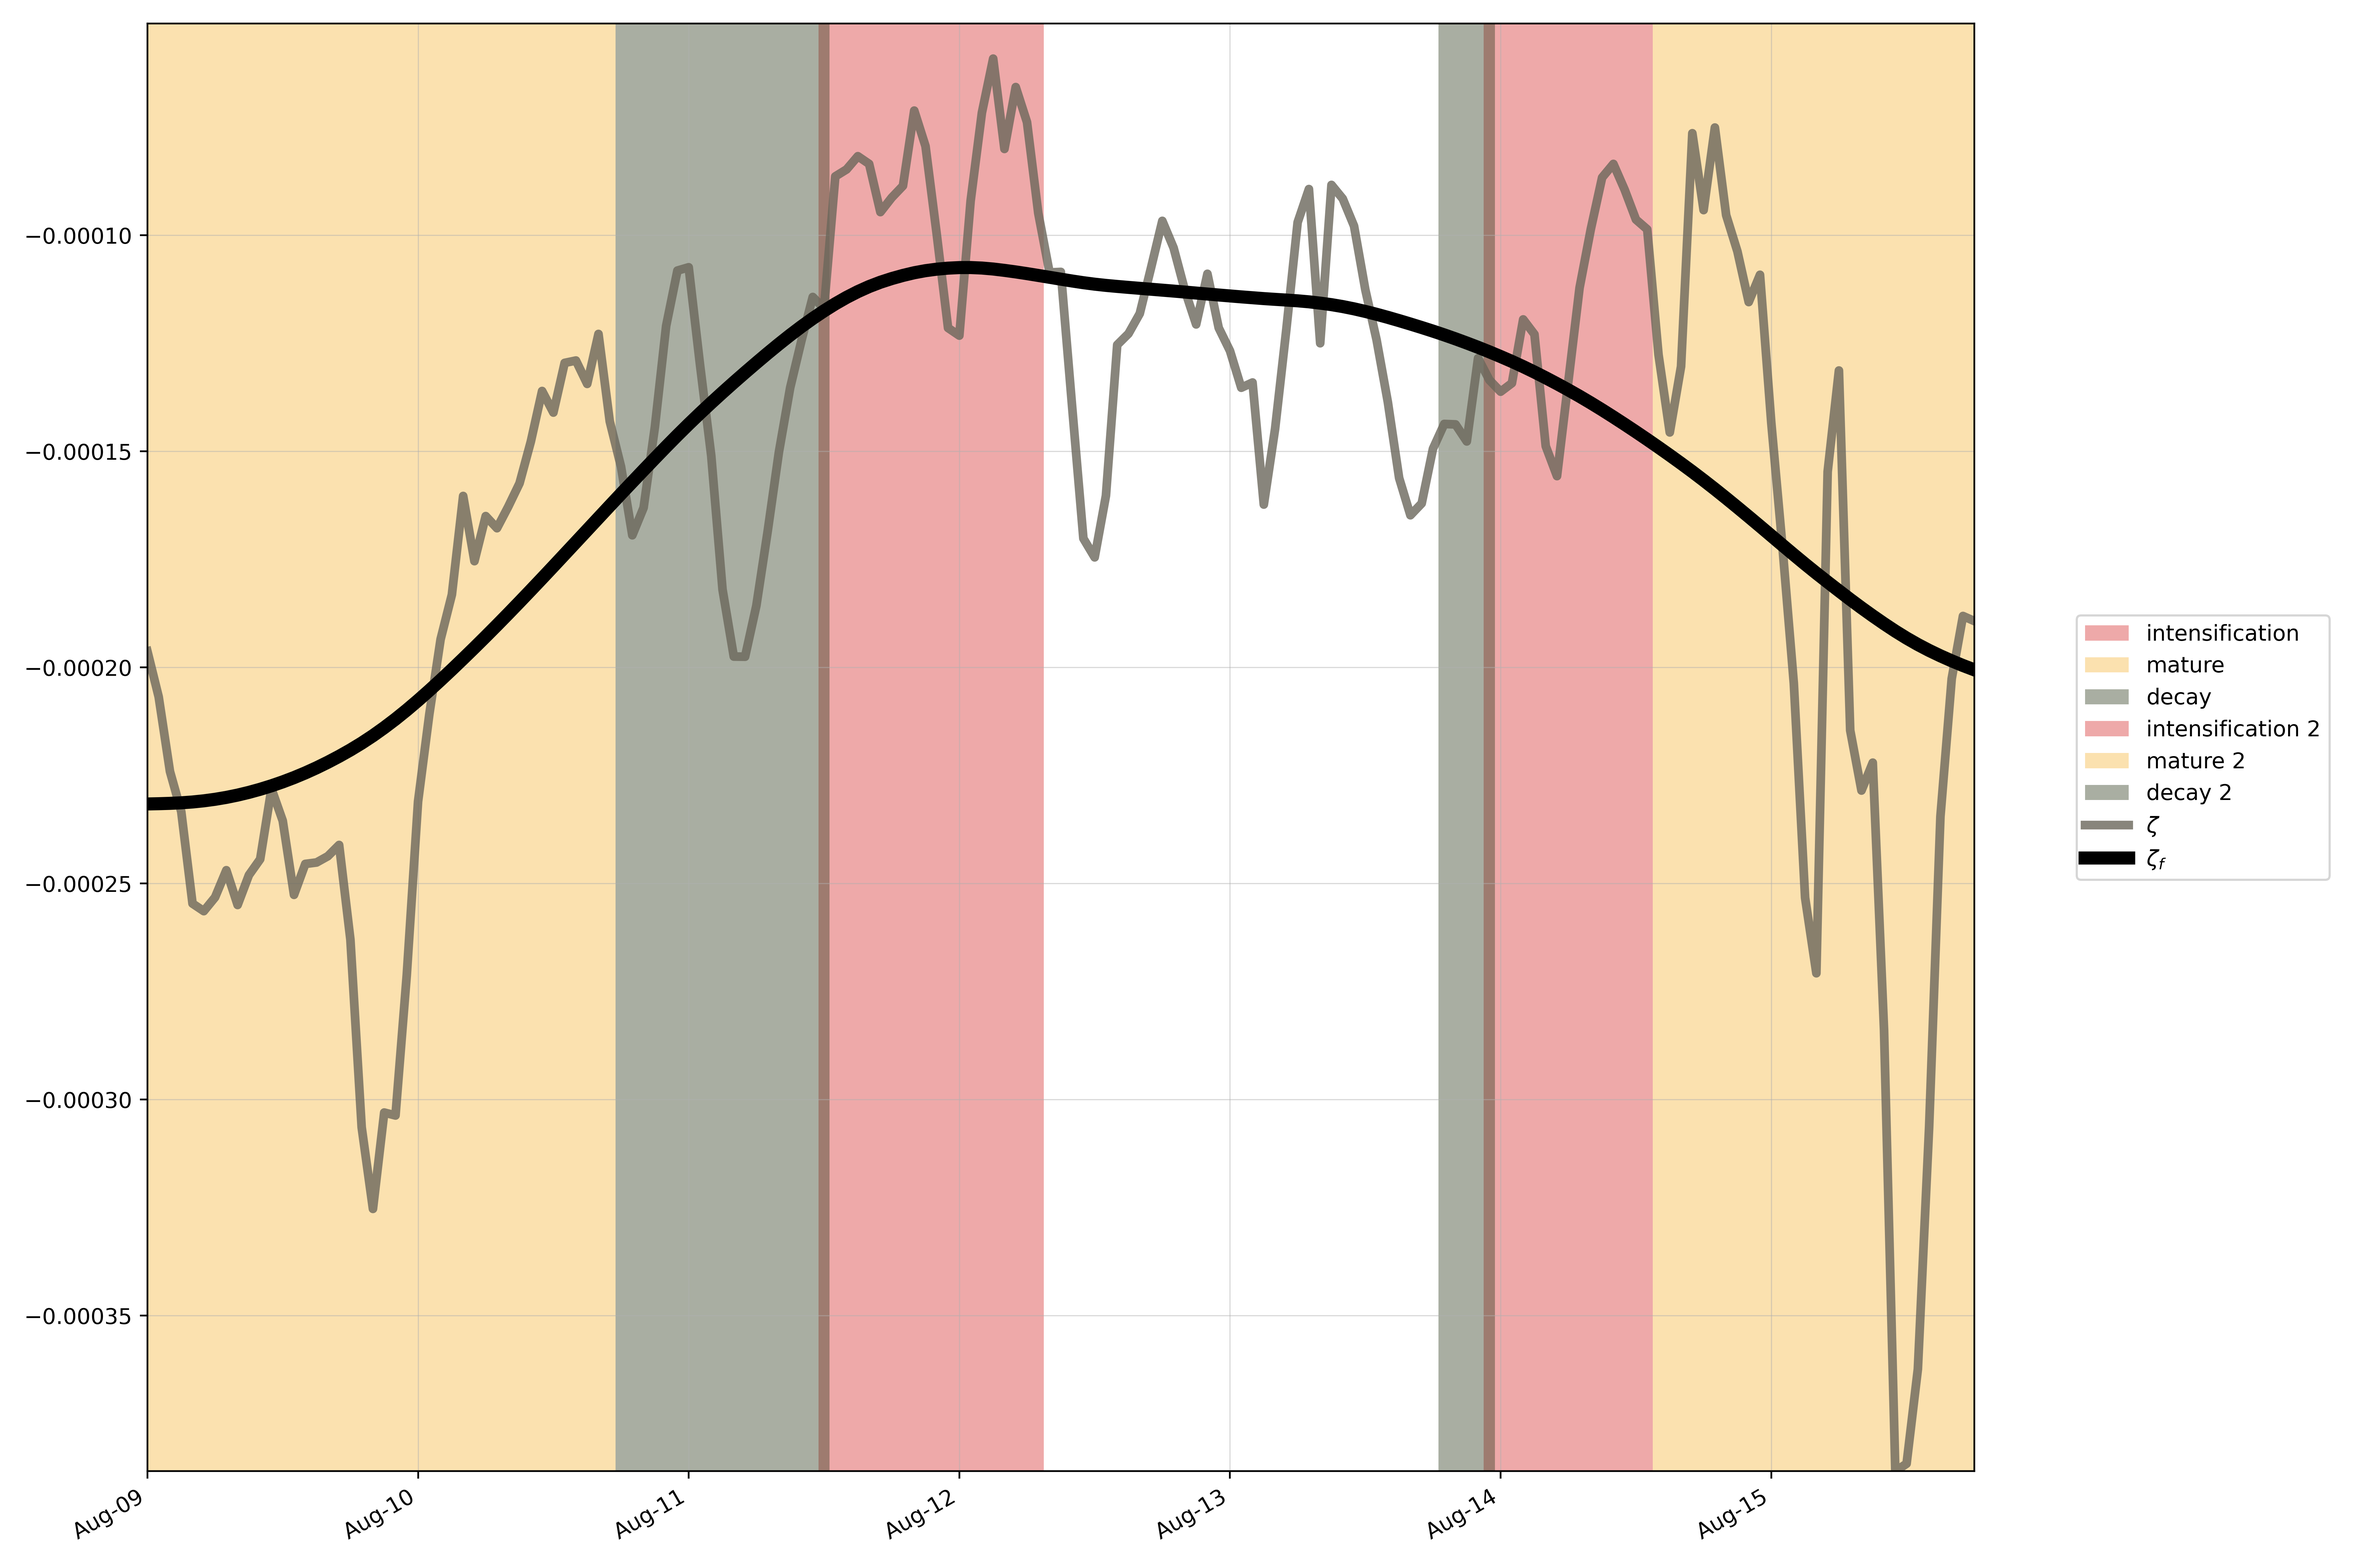
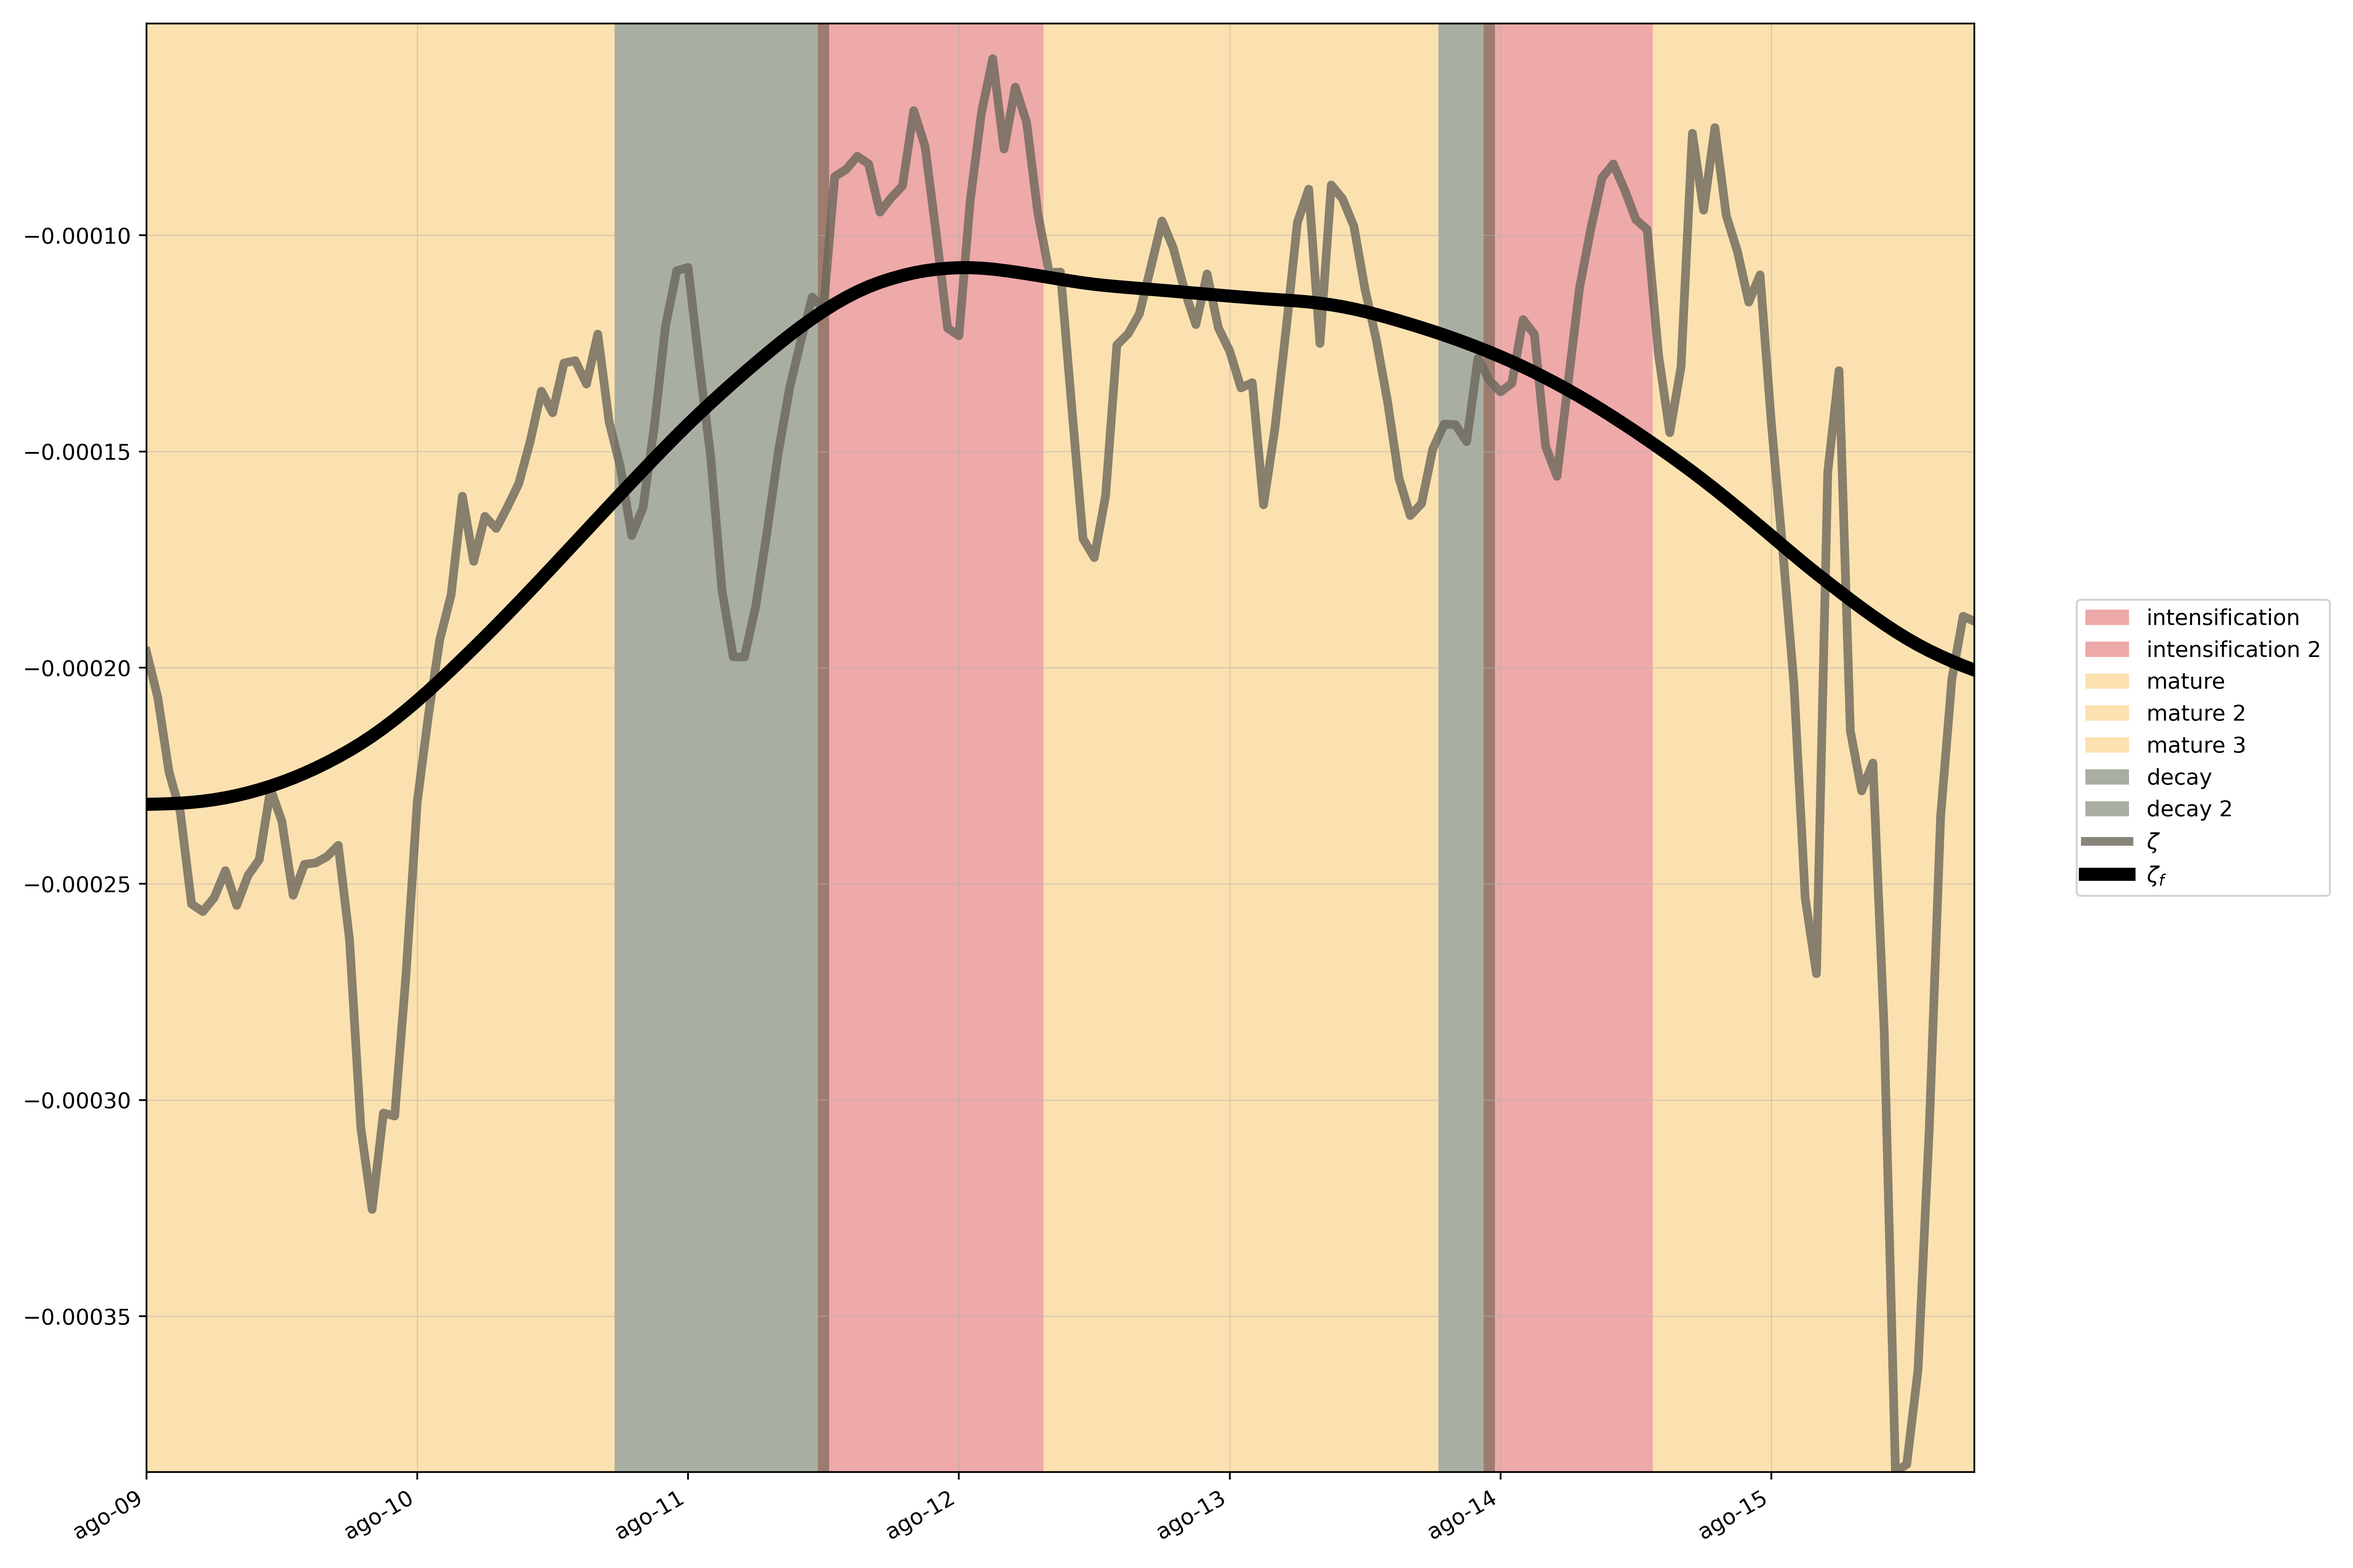
Fix: periods now can detect when a given period repeats more than 2x

diff --git a/src/determine_periods.py b/src/determine_periods.py
@@ -268,8 +268,9 @@ def plot_didatic(da, outfile_name_didatic):
                         freq=f'{int(dt.total_seconds() / 3600)} H'))
 
     for series in intensification:
-        ax5.fill_betweenx((z.min(),z.max()), series[0],
-                      series[-1], facecolor=colors[2], alpha=0.6)
+        if len(series) > 0:
+            ax5.fill_betweenx((z.min(),z.max()), series[0],
+                          series[-1], facecolor=colors[2], alpha=0.6)
         
     ax5.scatter(z_dz3_peaks.time,z_dz3_peaks,facecolor=colors[3],
                 edgecolor='k', s=150)
@@ -458,6 +459,21 @@ def decaying_stage(mature, z, dz2):
             
     return decaying
 
+def get_formatted_phases(phases):
+    new_phases = {}
+   
+    for phase_key in phases:
+        phase_list = phases[phase_key]
+       
+        if len(phase_list) == 1:
+            new_phases[phase_key] = phase_list[0]
+        else:
+            for idx, phase in enumerate(phase_list):
+                new_key = f"{phase_key} {idx + 1}" if idx > 0 else phase_key
+                new_phases[new_key] = phase
+
+    return new_phases
+
 def get_phases(da, ResultsSubDirectory):
     
     z = da.zeta_fil2
@@ -475,8 +491,6 @@ def get_phases(da, ResultsSubDirectory):
     six_hours = pd.Timedelta('6H')
     dt = z.time[1] - z.time[0]
     dt = pd.Timedelta(dt.values)
-    
-    
     phases = {}
     for phase, key in zip([[incipient], intensification, mature, decaying],
                     ['incipient', 'intensification', 'mature', 'decay']):
@@ -488,13 +502,7 @@ def get_phases(da, ResultsSubDirectory):
                               freq=f'{int(dt.total_seconds() / 3600)} H'))
         phases[key] = tmp
     
-    for key in list(phases.keys()):
-        if len(phases[key]) > 1:
-            new_key = f"{key} 2"
-            phases[new_key] = [phases[key][0]]
-            phases[key] = [phases[key][-1]] 
-            
-
+    phases = get_formatted_phases(phases)
     
     # Extract the first and last elements from each list
     df_dict = {}
@@ -502,7 +510,8 @@ def get_phases(da, ResultsSubDirectory):
         if len(v) == 0:
             df_dict[k] = []
         else:
-            df_dict[k] = [v[0][0], v[-1][-1]]
+            df_dict[k] = [v[0], v[-1]]
+            
     # Convert the dictionary to a DataFrame
     df = pd.DataFrame.from_dict(df_dict, orient='index',
                                 columns=['start', 'end'])
@@ -510,7 +519,7 @@ def get_phases(da, ResultsSubDirectory):
     df.to_csv(ResultsSubDirectory+'periods.csv')
     print(ResultsSubDirectory+'periods.csv created')
      
-    return phases
+    return df
 
 def plot_periods(da, periods, outfile_name):
     
@@ -524,19 +533,18 @@ def plot_periods(da, periods, outfile_name):
     
     six_hours = pd.Timedelta('5h 30 min')
     
+    periods = periods.dropna()
     # Iterate over the periods and plot each phase
-    for phase in periods.keys():
+    for i in range(len(periods)):
+        phase = periods.iloc[i].name
         # Remove any variation from the phase name
         phase_name = phase.split()[0]
         # Get the color for the phase from the color dictionary
         color = colors.get(phase_name, '#000000')
-        for series in periods[phase]:
-            if len(series) > 0:
-                ax.fill_betweenx((z.min(),z.max()+1e-5),
-                                series[0]+six_hours,
-                                series[-1]-six_hours, label=phase,
-                                facecolor=color, alpha=0.4)
-                print(phase,phase_name)
+        ax.fill_betweenx((z.min(),z.max()+1e-5),
+                        periods.loc[phase].start+six_hours,
+                        periods.loc[phase].end-six_hours,
+                        label=phase, facecolor=color, alpha=0.4)
         
     ax.plot(da.zeta.time, da.zeta,c='#6b675b',
             linewidth=4,label=r'$ζ$', alpha=0.8)
